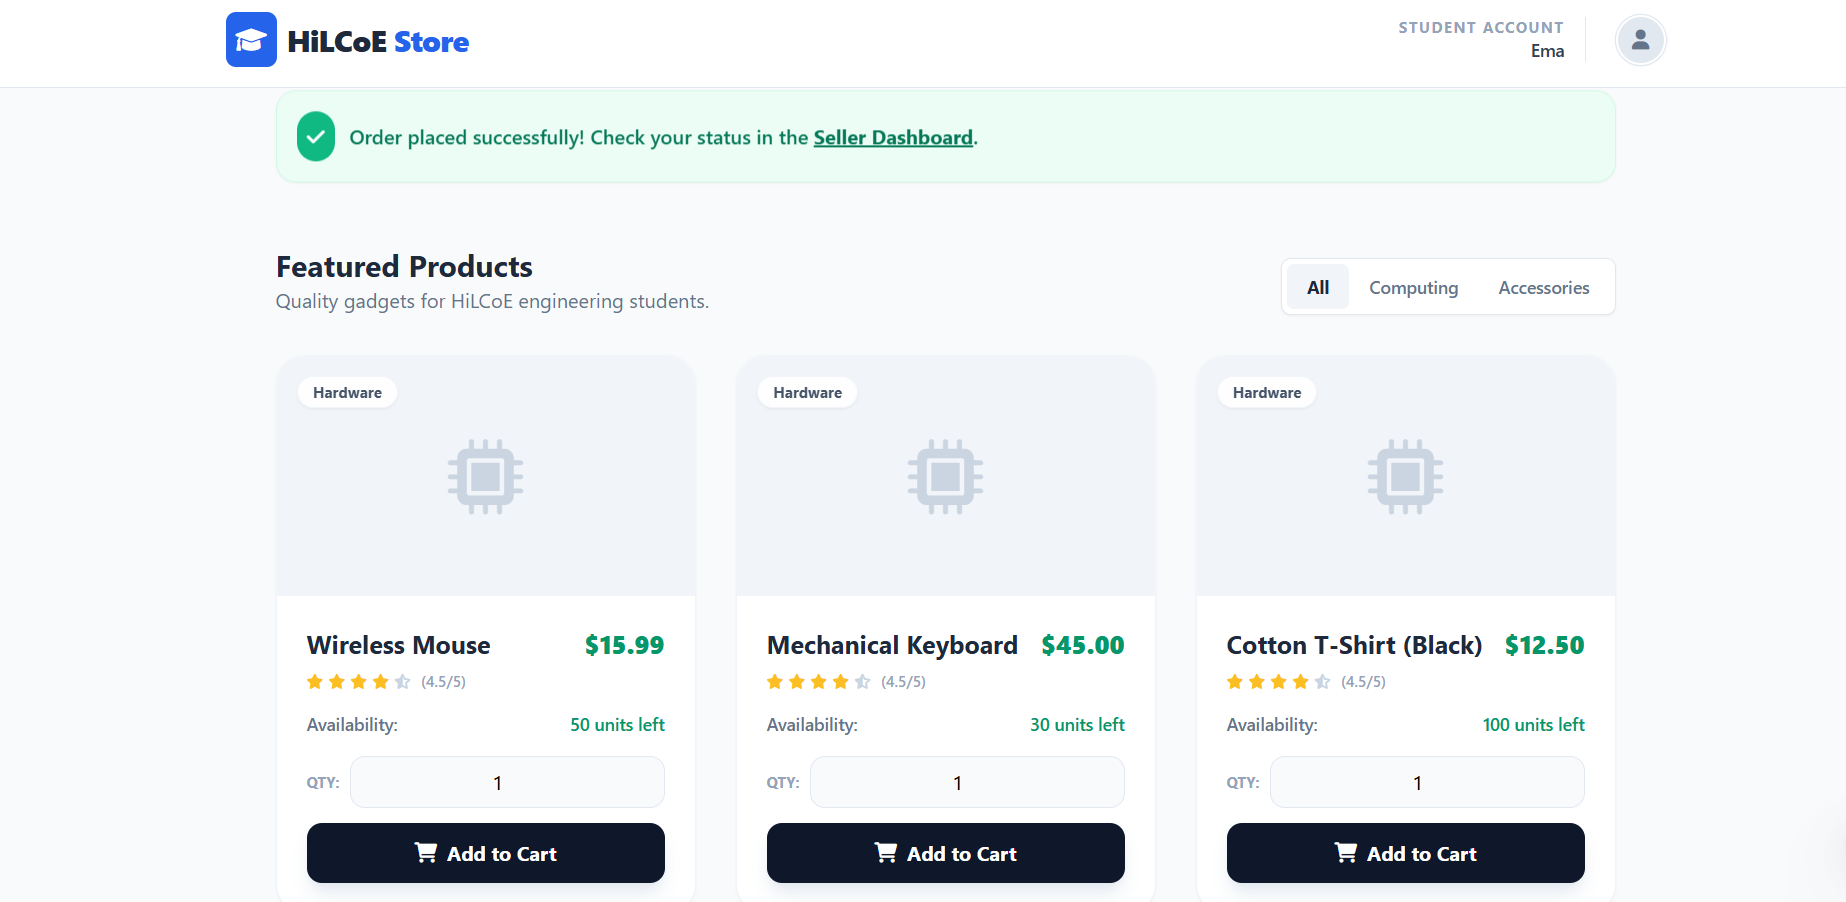
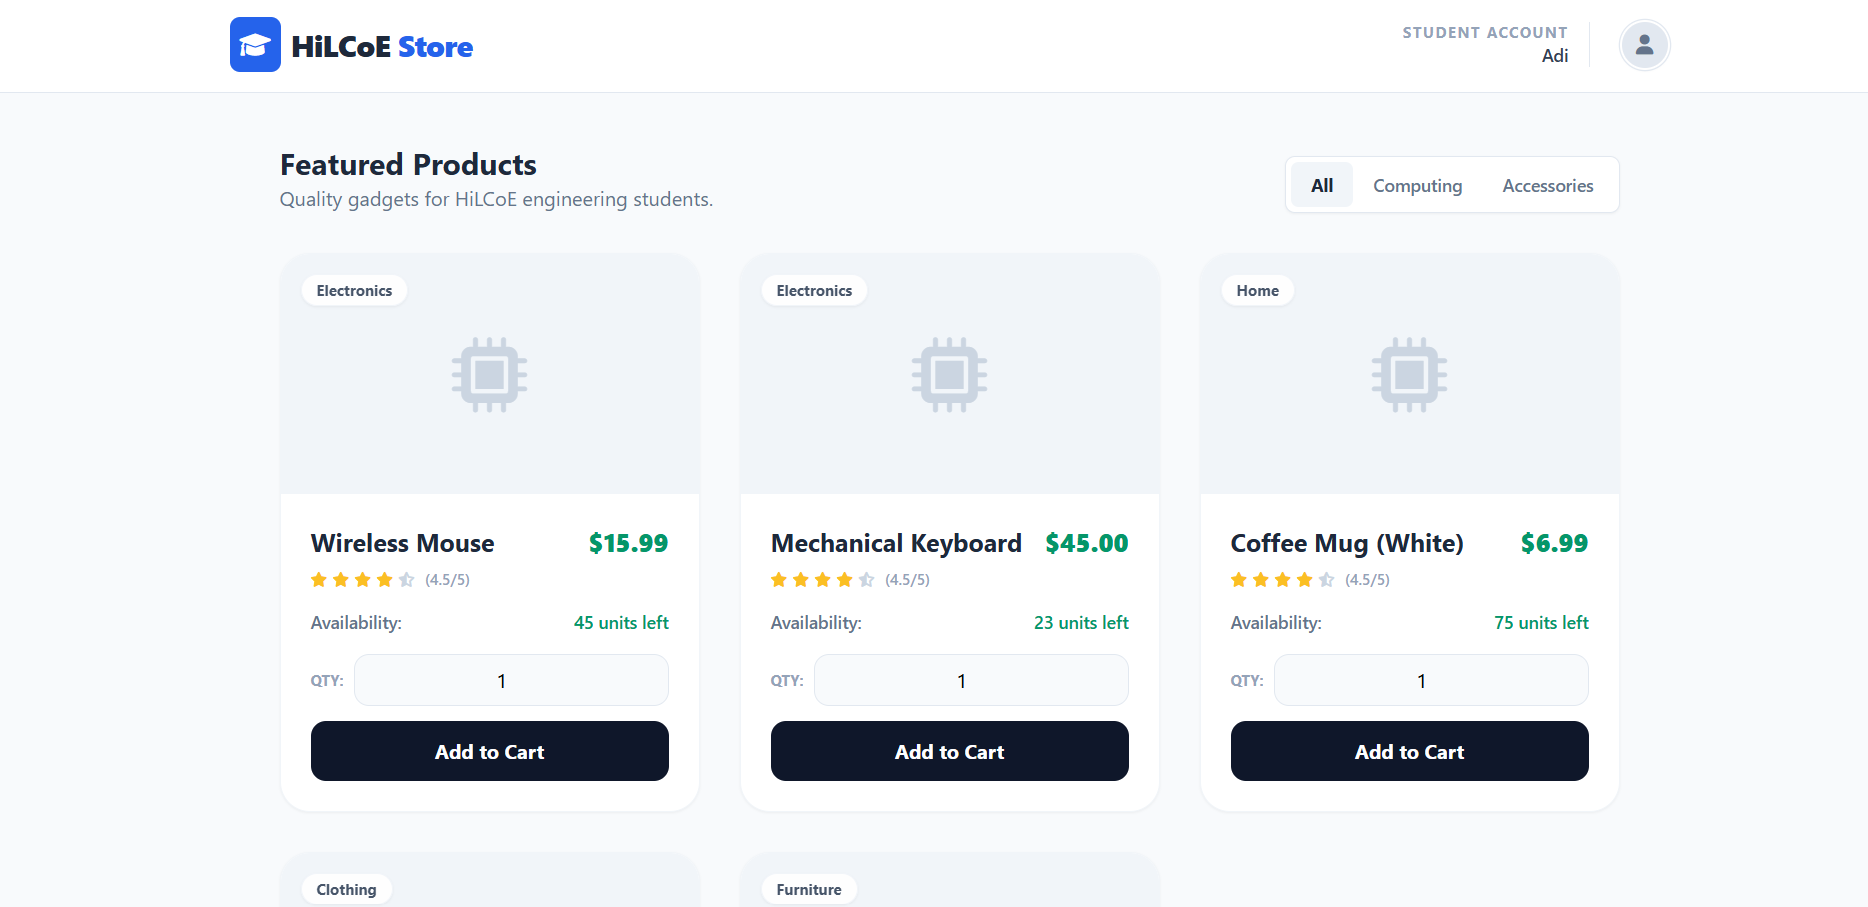
upated

diff --git a/README.md b/README.md
@@ -1,127 +1,207 @@
 
------
-
+----------
 # 📦 Order Management System: Enterprise Edition
 
 ### **The Gold Standard for Clean Architecture & DDD**
 
-This project is a high-performance **Seller & Student Marketplace** engineered with a strict **Hexagonal Architecture (Ports and Adapters)**. By decoupling the core business logic from technical details like MySQL, UUID generation, and Thymeleaf, we’ve built a system that is resilient, type-safe, and ready for production.
+This project is a **Seller & Student Marketplace** designed as a practical implementation of modern **Software Architecture and Design Principles**.
 
-![img_4.png](img_4.png)
+Built using **Hexagonal Architecture (Ports & Adapters)**, this system enforces a strict separation between business logic and external concerns like databases, UI, and frameworks.
 
-![img_5.png](img_5.png)
------
+> 💡 The goal is not just functionality — but demonstrating **how real-world scalable systems are designed.**
 
-## 📑 Strategic Navigation
+---
 
-* [🚀 The Evolution](https://www.google.com/search?q=%231-the-evolution-)
-* [🧠 Domain Layer (The Heart)](https://www.google.com/search?q=%232-domain-layer-aggregates--value-objects-)
-* [⚙ Application Layer (The Orchestrator)](https://www.google.com/search?q=%233-application-layer-the-orchestrator-)
-* [🔌 Infrastructure Layer (The Tools)](https://www.google.com/search?q=%234-infrastructure-layer-the-tools-)
-* [🎨 Presentation Layer (The UI)](https://www.google.com/search?q=%235-presentation-layer-the-ui-)
-* [🔄 The UUID & Triple-Model Flow](https://www.google.com/search?q=%236-the-id-strategy--triple-model-flow-)
-* [⚡ CQRS Implementation](https://www.google.com/search?q=%237-implementation-of-cqrs-)
-* [🛠 Getting Started](https://www.google.com/search?q=%238-how-to-run-)
+![System UI](img_4.png)
+![Dashboard](img_5.png)
 
------
+---
 
-## 1\. The Evolution 🚀
+## 📑 Navigation Guide
 
-We transitioned this system through three major architectural milestones:
+### 👀 Overview
+* [🚀 1. Project Background](#1-project-background-)
+* [🎯 2. Key Features & Goals](#2-key-features--goals-)
 
-1.  **From Sequential IDs to UUIDs:** We moved away from predictable database IDs to **UUID (Universally Unique Identifiers)** for public-facing URLs to enhance security and system decoupling.
-2.  **Strict Type Safety:** Resolved complex Java Type Mismatches between Web (String), Application (UUID), and Persistence (Long) layers.
-3.  **Cross-Aggregate Mapping:** Implemented logic to resolve `Customer` names from `Order` ID references in the Application layer, keeping our database "Normalized" but our UI "Human-Readable."
+### 🏗 Architecture & Design
+* [🧠 3. Domain Layer (DDD)](#3-domain-layer-ddd)
+* [⚙ 4. Application Layer (Use Cases)](#4-application-layer-the-orchestrator)
+* [🔌 5. Infrastructure Layer](#5-infrastructure-layer-the-tools)
+* [🎨 6. Presentation Layer](#6-presentation-layer-the-ui)
 
------
+### 🔄 System Design Decisions
+* [🔑 7. ID Strategy & Data Flow](#7-the-id-strategy--triple-model-flow)
+* [⚡ 8. CQRS Implementation](#8-implementation-of-cqrs)
 
-## 🧠 2. Domain Layer: Aggregates & Value Objects
+### 🚀 Getting Started
+* [🛠 9. How to Run](#9-how-to-run-)
 
-We use **Domain-Driven Design (DDD)** to ensure data consistency.
+---
 
-* **Order (Aggregate Root) 👑:** Manages the entire lifecycle. It contains the logic for status transitions (PENDING → SHIPPED → DELIVERED).
-* **Public ID (UUID) 🔑:** Every Order carries a `publicId`. This is what the outside world sees, while the database uses a hidden `Long` for performance.
-* **OrderItem (Value Object) 📦:** Immutable units. They don't have their own identity; they are part of the Order's state.
-* **OrderFactory 🏗:** The "Birthplace" of orders. It ensures every new order is assigned a fresh UUID and starts in the correct state.
+## 1. Project Background 🚀
 
------
+This system evolved through key architectural improvements:
 
-## ⚙ 3. Application Layer: The Orchestrator
+1. **From Sequential IDs → UUIDs**  
+   Replaced predictable database IDs with secure, public-facing UUIDs.
 
-This layer coordinates the **Use Cases**. It is the only place where the "Join" between Customers and Orders happens.
+2. **Strict Type Safety Across Layers**  
+   Eliminated mismatches between:
+    - Web Layer → `String`
+    - Domain Layer → `UUID`
+    - Database Layer → `Long`
 
-* **Command Handlers (Write Path):** (e.g., `PlaceOrderHandler`, `UpdateStatusHandler`). They convert UI Strings into Domain UUIDs and execute business logic.
-* **Query Handlers (Read Path):** (e.g., `OrderQueryHandler`). These transform raw data into `OrderResponse` DTOs, fetching the **Customer Name** from the `CustomerRepository` so the seller sees "Eden Admasu" instead of "ID: 1."
-* **Dependency Inversion:** This layer defines the **Repository Interfaces**. It doesn't care *how* MySQL works; it only cares that the data can be saved.
+3. **Cross-Aggregate Mapping**  
+   Maintained a **normalized database** while presenting **human-readable UI data**.
 
------
+---
 
-## 🔌 4. Infrastructure Layer: The Tools
+## 2. Key Features & Goals 🎯
 
-The "Heavy Lifting" layer where technology lives.
+* 🔐 Secure Public IDs using UUIDs (No predictable URLs)
+* 🧱 Clean Architecture (Hexagonal + DDD)
+* ⚡ CQRS Pattern (Separate Read & Write Logic)
+* 🎯 Type-Safe Layer Communication (String ↔ UUID ↔ Long)
+* 🛍 Dual UI System:
+    * Seller Dashboard (Admin Panel)
+    * Student Storefront (Customer View)
+* 🔍 Search & Stock Awareness (Real-time UX improvements)
 
-* **Persistence Model (`OrderEntity`):** Handles the JPA mapping to MySQL. It uses `@Column(unique = true)` for the UUID and `@Id` for the primary key.
-* **Repository Implementation:** Implements the Domain interfaces. We added custom logic to `findByPublicId(UUID)` to bridge the gap between the UI and the Database.
-* **Database Management:** Uses `spring.jpa.hibernate.ddl-auto=update` to manage schema changes like adding the new UUID columns without losing data.
+---
 
------
+## 3. Domain Layer (DDD) 🧠
 
-## 🎨 5. Presentation Layer: The UI
+The **heart of the system**, where all business rules live.
 
-* **Modern Shop UI:** A Tailwind-powered student storefront featuring product categories, stock alerts (Red warnings for low stock), and a professional navigation bar.
-* **Seller Dashboard:** A data-rich admin panel for managing order fulfillment.
-* **Type-Safe Controllers:** All `@PathVariable` arguments are handled as `String` to support UUIDs, preventing "400 Bad Request" errors found in standard ID-based systems.
+### Core Concepts:
 
------
+* **Order (Aggregate Root) 👑**
+    - Controls lifecycle: `PENDING → SHIPPED → DELIVERED`
+    - Ensures business invariants
 
-## 🔄 6. The ID Strategy & Triple-Model Flow
+* **Public ID (UUID) 🔑**
+    - External identity of the system
+    - Hides internal database structure
 
-To prevent "leaky abstractions," we maintain three distinct versions of an Order:
+* **OrderItem (Value Object) 📦**
+    - Immutable
+    - Represents items within an order
 
-1.  **Domain Model (`Order.java`)**: Pure logic. Uses `UUID` for identity.
-2.  **Persistence Model (`OrderEntity.java`)**: Database logic. Uses `Long` for indexing and `UUID` for searching.
-3.  **Presentation Model (`OrderResponse.java`)**: UI logic. Flattens data and converts everything to `String` for the browser.
+* **OrderFactory 🏗**
+    - Responsible for:
+        - Creating new Orders
+        - Assigning UUIDs
+        - Setting initial state
 
-| Layer | ID Type | Purpose |
-| :--- | :--- | :--- |
-| **Database** | `Long` | Fast indexing & Primary Keys |
-| **API / URL** | `UUID (String)` | Security & External Referencing |
-| **Domain** | `UUID` | Business Identity |
+---
 
------
+## 4. Application Layer: The Orchestrator ⚙
 
-## ⚡ 7. Implementation of CQRS
+This layer handles **use cases and system workflows**.
 
-| Feature | Commands (Write) ✍ | Queries (Read) 📖 |
-| :--- | :--- | :--- |
-| **Primary Goal** | Data Integrity | High-Speed Display |
-| **Logic** | Validates stock & status | Resolves Customer Names |
-| **Result** | Saves to Repository | Returns DTOs |
+### Responsibilities:
 
------
+* **Command Handlers (Write Operations) ✍**
+    - Example: `PlaceOrderHandler`
+    - Convert UI input → Domain models
+    - Enforce business rules before saving
 
-## 8\. How to Run 🛠
+* **Query Handlers (Read Operations) 📖**
+    - Example: `OrderQueryHandler`
+    - Transform data → UI-friendly DTOs
 
-### **1. MySQL Setup**
+* **Dependency Inversion**
+    - Defines repository interfaces
+    - Keeps domain independent from infrastructure
+
+---
+
+## 5. Infrastructure Layer: The Tools 🔌
+
+Handles all **external systems and technical details**.
+
+### Components:
+
+* **Persistence Model (`OrderEntity`)**
+    - Maps domain → database (JPA)
+
+* **Repository Implementations**
+    - Implements domain interfaces
+
+* **Database Management**
+    - MySQL + Hibernate
+    - Automatic schema updates (`ddl-auto`)
+
+---
+
+## 6. Presentation Layer: The UI 🎨
+
+Where users interact with the system.
+
+### Interfaces:
+
+* 🛍 **Student Storefront**
+    - Browse products
+    - Search in real-time
+    - View stock availability
+
+* 🧑💼 **Seller Dashboard**
+    - Manage orders
+    - Track status
+    - Handle fulfillment
+
+* 🔒 **Type-Safe Controllers**
+    - Accept `String` inputs (UUIDs)
+    - Prevent request errors (`400 Bad Request`)
+
+---
+
+## 7. The ID Strategy & Triple-Model Flow 🔄
+
+A key architectural decision for **security + performance**:
+
+| Layer        | ID Type         | Purpose                          |
+|--------------|----------------|----------------------------------|
+| Database     | `Long`         | Fast indexing & primary keys     |
+| API / URL    | `UUID (String)`| Secure external exposure         |
+| Domain       | `UUID`         | Business identity consistency    |
+
+> 💡 This separation prevents data leaks while maintaining performance.
+
+---
+
+## 8. Implementation of CQRS ⚡
+
+Command Query Responsibility Segregation improves clarity and scalability.
+
+| Feature         | Commands (Write) ✍     | Queries (Read) 📖        |
+|-----------------|------------------------|--------------------------|
+| Goal            | Data Integrity         | Fast Data Retrieval      |
+| Logic           | Validation & Rules     | Data Transformation      |
+| Output          | Save to DB             | Return DTOs              |
+
+### Benefits:
+* Cleaner code separation
+* Easier scaling
+* Better performance tuning
+
+---
+
+## 9. How to Run 🛠
+
+### 1. Database Setup
 
 ```sql
 CREATE DATABASE order_mgmt_db;
+
+-----
 ```
+#### 2. Access the System
+````
+🧑💼 Seller Admin Dashboard
+   http://localhost:8080/
 
-### **2. Configuration**
-
-Update `src/main/resources/application.properties`:
-
-* `spring.datasource.username=root`
-* `spring.datasource.password=your_password`
-
-### **3. Run**
-
-```bash
-mvn spring-boot:run
-```
-
-✨ **Seller Admin:** `http://localhost:8080/`
-✨ **Student Store:** `http://localhost:8080/store` (Wait, did you create the store mapping? I can help with that\!)
-
+🛍 Student Storefront
+    http://localhost:8080/store
+````
 -----
